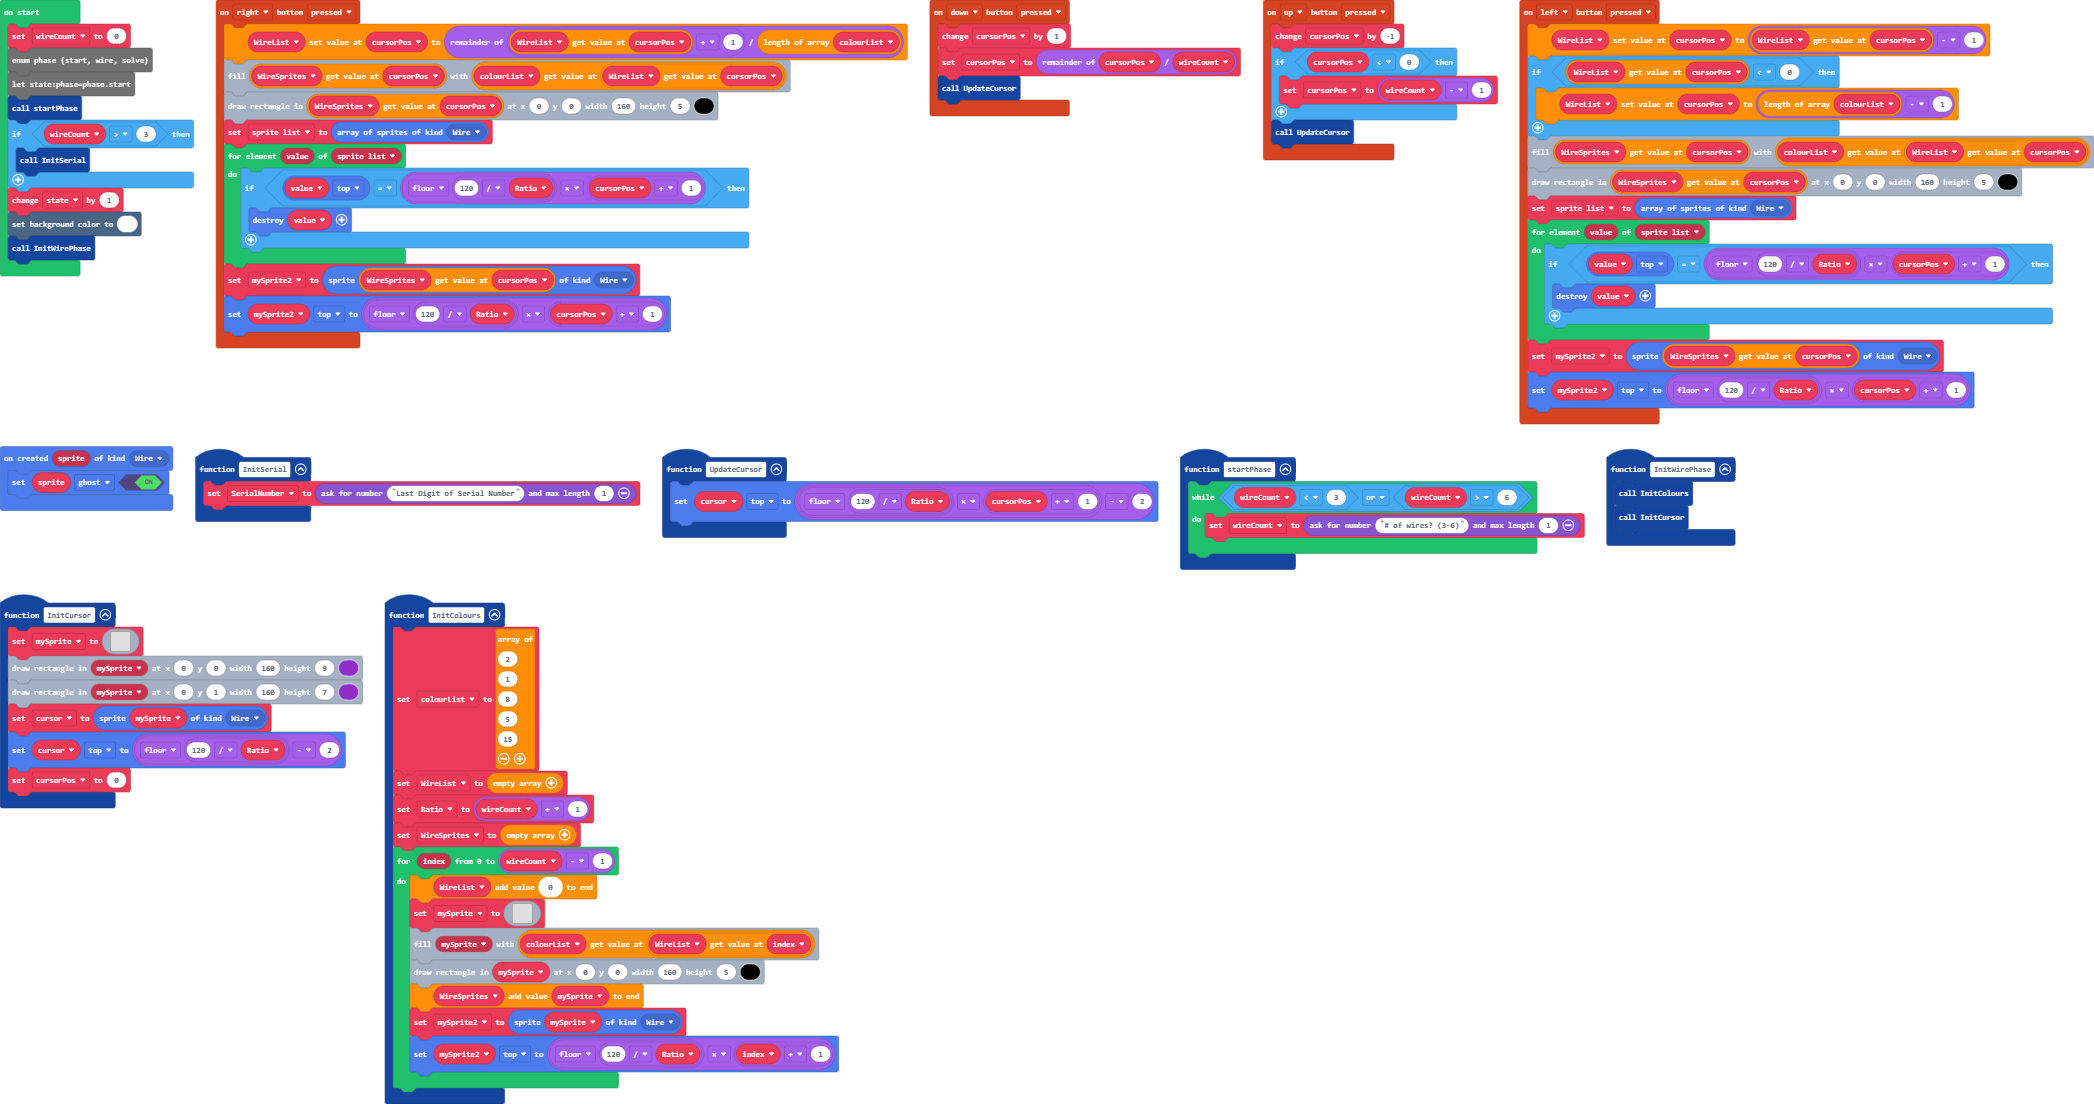
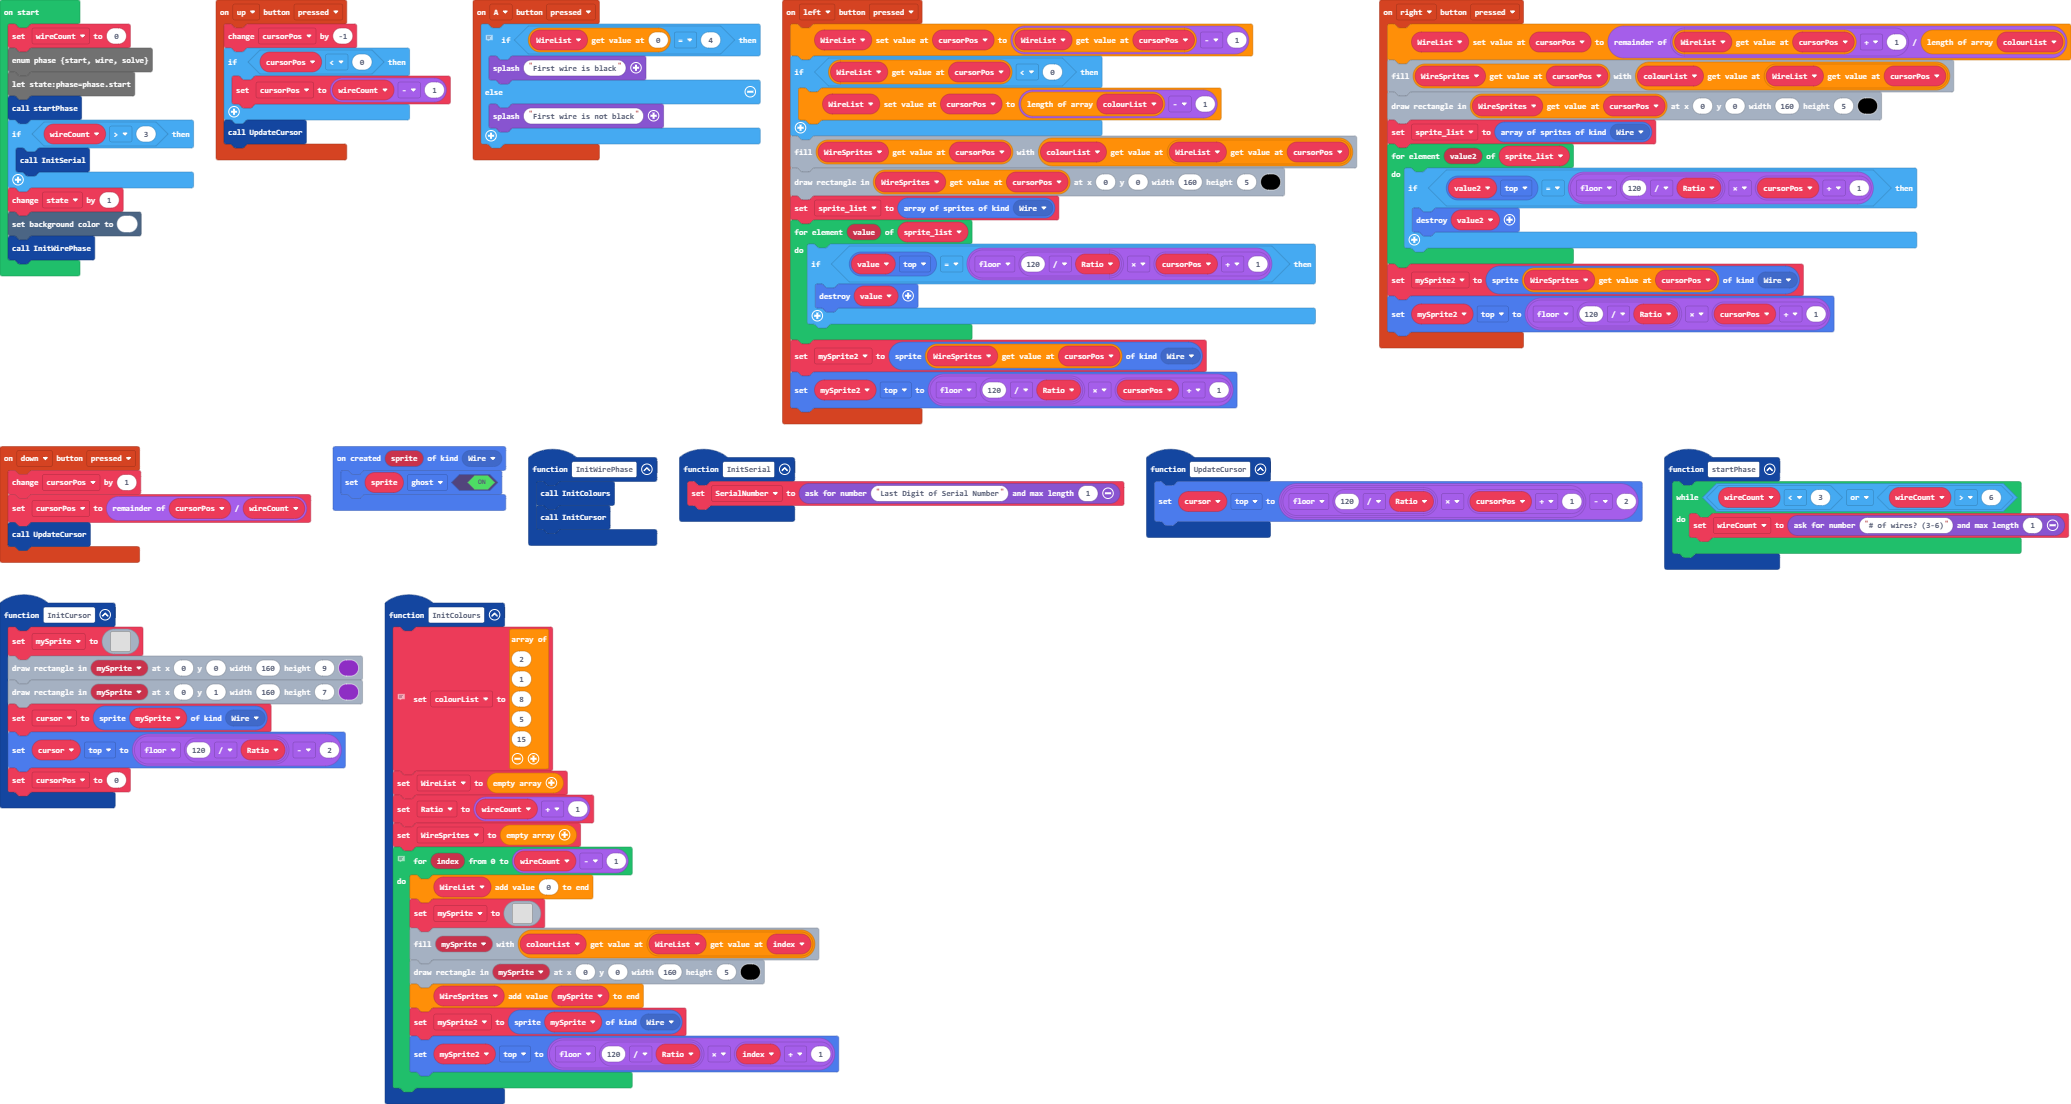
I did stuff

diff --git a/main.ts b/main.ts
@@ -16,6 +16,14 @@ function startPhase () {
         wireCount = game.askForNumber("# of wires? (3-6)", 1)
     }
 }
+controller.A.onEvent(ControllerButtonEvent.Pressed, function () {
+    // check if the first wire is black
+    if (WireList[0] == 4) {
+        game.splash("First wire is black")
+    } else {
+        game.splash("First wire is not black")
+    }
+})
 function InitSerial () {
     SerialNumber = game.askForNumber("Last Digit of Serial Number", 1)
 }
@@ -58,6 +66,12 @@ function InitCursor () {
     cursorPos = 0
 }
 function InitColours () {
+    // Setup colours
+    // 0 - red
+    // 1 - white
+    // 2 - blue
+    // 3 - yellow
+    // 4 - black
     colourList = [
     2,
     1,
@@ -68,6 +82,7 @@ function InitColours () {
     WireList = []
     Ratio = wireCount + 1
     WireSprites = []
+    // Loop through the wires and get them set up
     for (let index = 0; index <= wireCount - 1; index++) {
         WireList.push(0)
         mySprite = img`
@@ -89,9 +104,9 @@ controller.right.onEvent(ControllerButtonEvent.Pressed, function () {
     WireSprites[cursorPos].fill(colourList[WireList[cursorPos]])
     WireSprites[cursorPos].drawRect(0, 0, 160, 5, 15)
     sprite_list = sprites.allOfKind(SpriteKind.Wire)
-    for (let value of sprite_list) {
-        if (value.top == Math.floor(120 / Ratio) * (cursorPos + 1)) {
-            value.destroy()
+    for (let value2 of sprite_list) {
+        if (value2.top == Math.floor(120 / Ratio) * (cursorPos + 1)) {
+            value2.destroy()
         }
     }
     mySprite2 = sprites.create(WireSprites[cursorPos], SpriteKind.Wire)
@@ -110,8 +125,8 @@ let mySprite2: Sprite = null
 let sprite_list: Sprite[] = []
 let WireSprites: Image[] = []
 let colourList: number[] = []
-let WireList: number[] = []
 let SerialNumber = 0
+let WireList: number[] = []
 let Ratio = 0
 let cursor: Sprite = null
 let cursorPos = 0
